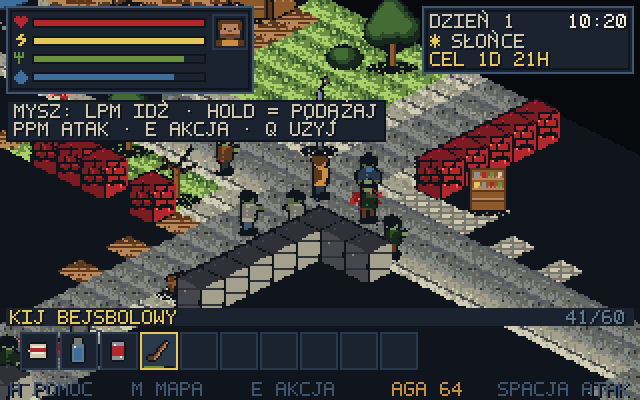
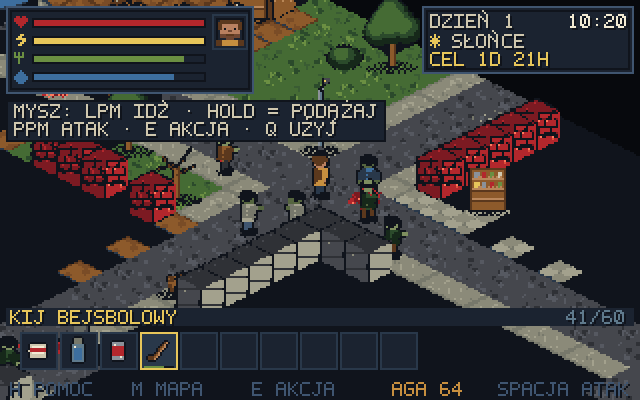
v0.2.5: dopracowanie materiałów (trawa, ziemia, żwir) + dokumentacja i zrzuty
- trawa: kępy darni o zmiennej liczbie, bez kwiatka powtarzanego co kilka
  kafli, przygaszone przerzedzenia;
- ziemia: miękkie płaty zamiast kaszy punktów, ziarno w komórkach płaszczyzny,
  kamienie tylko w części wariantów i z kształtem z RNG;
- żwir: zmienna orientacja highlightu kamienia;
- docs: GRAFIKA.md sekcja 9 (co zrobione, budżet z pomiaru, weryfikacja),
  README/WINDOWS/GDD/PROMPT-KONTYNUACJA zaktualizowane do v0.2.5;
- docs/screens 01-12 odświezone nową grafiką terenu.

diff --git a/src/art.js b/src/art.js
@@ -294,21 +294,25 @@ const GROUND_DRAW = {
   // Ziemia: nieregularne płaty, spokojne ziarno, pojedyncze kamienie.
   dirt(g) {
     const { pb, rng, detail } = g;
-    for (let i = 0; i < 5; i++) {
+    // nieregularne płaty: większe, miękkie plamy zamiast kaszy punktów
+    const patches = 3 + (detail % 3);
+    for (let i = 0; i < patches; i++) {
       const [cx, cy] = randInner(rng);
-      blobIn(pb, MASK_INNER, rng, cx, cy, rng.int(1, 3), rng.chance(0.5) ? C.WOOD : C.GOLD, 0.6);
+      blobIn(pb, MASK_INNER, rng, cx, cy, rng.int(2, 3), rng.chance(0.5) ? C.WOOD : C.GOLD, 0.45);
     }
-    for (let i = 0; i < 4; i++) {
-      const [cx, cy] = randInner(rng);
-      blobIn(pb, MASK_INNER, rng, cx, cy, 1, rng.chance(0.5) ? X.DIRT_LIT : C.WOOD_DARK, 0.7);
-    }
+    // spokojne ziarno: pary pikseli w komórkach płaszczyzny, nie szum per piksel
+    g.each((x, y, u, v) => {
+      if (hash2(Math.floor(u * 8), Math.floor(v * 8), 613) > 0.88 && hash2(x, y, 727) > 0.45) {
+        pb.set(x, y, rng.chance(0.5) ? X.DIRT_LIT : C.WOOD_DARK);
+      }
+    });
+    // pojedyncze kamienie: tylko część wariantów, kształt z RNG
     if (detail >= 3) {
       const [cx, cy] = randInner(rng);
-      if (MASK_INNER.get(cx + 1, cy) === 1 && MASK_INNER.get(cx, cy + 1) === 1) {
-        pb.set(cx, cy, C.CONCRETE);
-        pb.set(cx + 1, cy, C.CONCRETE_DARK);
-        pb.set(cx, cy + 1, C.CONCRETE_DARK);
-      }
+      const r = rng.int(0, 1);
+      blobIn(pb, MASK_INNER, rng, cx, cy, r, C.CONCRETE_DARK, 1);
+      pb.set(cx, cy, C.CONCRETE);
+      if (r === 1) pb.set(cx + 1, cy, X.ASPHALT_HI);
     }
   },
 
@@ -439,9 +443,10 @@ const GROUND_DRAW = {
     }
     for (let i = 0; i < 3; i++) {
       const [cx, cy] = randInner(rng);
-      if (MASK_INNER.get(cx + 1, cy) === 1) {
+      const [dx, dy] = rng.pick([[1, 0], [0, 1], [1, 1], [-1, 1]]);
+      if (MASK_INNER.get(cx + dx, cy + dy) === 1) {
         pb.set(cx, cy, X.ASPHALT_HI);
-        pb.set(cx + 1, cy, C.ASPHALT);
+        pb.set(cx + dx, cy + dy, C.ASPHALT);
       }
     }
     for (let i = 0; i < 2; i++) {

diff --git a/README.md b/README.md
@@ -39,20 +39,59 @@ deskami, śpisz w łóżkach i próbujesz przetrwać **dwie doby**.
   <img src="docs/screens/06-mapa.png" width="49%" alt="Mapa okolicy">
 </p>
 
-## Wersja v0.2.4 — widok daleki
+## Wersja v0.2.5 — grunt i podłogi od nowa
 
 **Pobierz gotowy projekt (bez Gita):**
-[**ZIP źródeł v0.2.4 — dostępny teraz**](https://github.com/diWhizZ/AmBoid/archive/refs/tags/v0.2.4.zip) ·
-[Release v0.2.4](https://github.com/diWhizZ/AmBoid/releases/tag/v0.2.4) ·
+[**ZIP źródeł v0.2.5**](https://github.com/diWhizZ/AmBoid/archive/refs/tags/v0.2.5.zip) ·
+[Release v0.2.5](https://github.com/diWhizZ/AmBoid/releases/tag/v0.2.5) ·
+[ZIP gałęzi roboczej](https://github.com/diWhizZ/AmBoid/archive/refs/heads/arena/b923a220-amboid.zip) ·
 [aktualny main.zip](https://github.com/diWhizZ/AmBoid/archive/refs/heads/main.zip).
 
-**Status publikacji:** PR #2 scalony, tag i Release v0.2.4 opublikowane.
-Osobny asset `AmBoid-0.2.4.zip` czeka na wysyłkę: sandbox nie ma dostępu do
-`uploads.github.com`, a GitHub App nie ma uprawnienia `workflows`.
-ZIP tagu powyżej i „Source code (zip)” na Release są dostępne niezależnie od
-tego ograniczenia. [Szczegóły i gotowy workflow](docs/PUBLIKACJA.md).
+**Status publikacji:** PR #4 (ta wersja) otwarty z gałęzi sesji; tag i Release
+v0.2.5 tworzone z tego samego commitu co PR. Historyczny v0.2.4 pozostaje
+nietknięty: [tag v0.2.4](https://github.com/diWhizZ/AmBoid/releases/tag/v0.2.4).
+Ograniczenie wysyłki osobnego assetu `AmBoid-*.zip` na Release jest opisane
+w [docs/PUBLIKACJA.md](docs/PUBLIKACJA.md) — ZIP tagu/gałęzi działa zawsze.
 
-Changelog:
+Changelog v0.2.5 (grafika terenu i podłóg, bez zmian geometrii i mechanik):
+- **koniec pasmowania**: usunięty gradient „oświetlenia” pojedynczego rombu,
+  który powielony na płaskiej powierzchni dawał ukośne pasy;
+- **koniec powtarzalnych prążków**: asfalt nie ma dwóch ciemnych linii w każdym
+  kaflu, beton poziomej szczeliny, drewno linii co 3 piksele;
+- wzory strukturalne (fugi płyt chodnika, deski, siatka ceramiki, dylatacje
+  betonu) liczone w **UV płaszczyzny podłogi** — są ciągłe między kaflami
+  i leżą w osiach izometrii, nie ekranu;
+- **dobór wariantów**: dokładna faza siatki strukturalnej + zestaw detalu
+  z hasza(seed, x, y); deterministyczny, stabilny przy przesuwaniu kamery,
+  bez `Math.random()` w klatce i bez zużywania RNG rozgrywki;
+- **maska rombu 256 px** (test środka piksela): duża płaszczyzna składa się
+  bez dziur i bez podwójnego pokrycia (było 272 px i ~6% nadpisań → szwy);
+  globalny `PixelBuffer.fillPoly` pozostał nietknięty;
+- **4–8 wariantów** na materiał o zbliżonej średniej jasności (koniec
+  szachownicy z jaśniejszych/ciemniejszych rombów); szczegóły jako celowe
+  skupiska pikseli, czytelne po pomniejszeniu 0,75×;
+- materiały wg briefu: asfalt = ciemna spokojna masa z pęknięciami i łatkami,
+  trawa = stonowana zieleń z kępami darni i przerzedzeniami (bez kwiatka
+  co kilka kafli), chodnik = czytelne płyty 2×2 z delikatnymi fugami,
+  **krawężnik tylko na prawdziwej granicy z jezdnią**, ziemia = płaty
+  i pojedyncze kamienie, beton = spokojne pola, deski = przesunięte łączenia,
+  ceramika = siatka w perspektywie podłogi, wykładzina = matowa z przetarciem,
+  żwir = skupiska kamieni, woda = ograniczone refleksy;
+- narzędzia developerskie: `npm run texshots` (powtarzalne kadry porównawcze
+  w ignorowanym `shots/`) i `node tools/texbench.mjs` (koszt atlasu i czasu
+  renderu tego samego kadru).
+
+Koszt (pomiar `tools/texbench.mjs`, ten sam kadr):
+| | v0.2.4 | v0.2.5 |
+| --- | --- | --- |
+| kafle terenu | 30 | 54 |
+| chunky 8 bit | 15 360 B | 27 648 B |
+| 6 bitplanów AGA | 11 520 B | 20 736 B |
+| maska rombu | 30 × 64 B | 1 × 64 B (wspólna) |
+| render kadru far 0,75× | 2,208 ms | 1,941 ms |
+| `buildArt()` | 41,1 ms | 31,6 ms |
+
+Zmiany z v0.2.4 (widok daleki) pozostają w mocy:
 - domyślny **widok daleki 0,75×**: świat 427×267, ekran nadal **320×200**;
 - **V** przełącza daleki / bliski; `?view=far|close` i zapis `amboid.view`;
 - skalowanie **indeksów palety, MAJORITY 2×2** — bez uśredniania RGB;
@@ -72,7 +111,7 @@ Potrzebujesz tylko Node.js (bez żadnych zależności produkcyjnych):
 Windows / PowerShell (również przy zablokowanym `npm.ps1`):
 
 ```powershell
-cd D:\pobrane\zomboid\AmBoid-0.2.4
+cd D:\pobrane\zomboid\AmBoid-0.2.5
 node tools/serve.mjs
 # otwórz http://localhost:8080
 ```
@@ -227,6 +266,7 @@ sprawdza, że na ekranie jest dokładnie 0 pikseli spoza palety.
 
 ```bash
 npm run shots   # zrzuty ekranu do docs/screens
+npm run texshots # powtarzalne kadry tekstur do ignorowanego shots/
 npm test        # testy logiki: ruch, walka, łupy, zabijanie okien, sen, śmierć
 node tools/export_amiga.mjs   # atlasy IFF ILBM + paleta
 node tools/export_map.mjs     # miasto w formacie binarnym .amb
@@ -234,7 +274,7 @@ node tools/stress.mjs         # 6000 losowych klatek bez wyjątków
 node tools/browsertest.mjs    # integracja main.js z atrapą DOM
 ```
 
-**v0.2.4: 204 OK, 0 FAIL**, `BROWSER-STUB TEST OK` dla obu widoków,
+**v0.2.5: 215 OK, 0 FAIL**, `BROWSER-STUB TEST OK` dla obu widoków,
 0 pikseli poza paletą AGA oraz 6000 klatek stress. Pod Windows:
 `npm.cmd install`, potem `npm.cmd test` (do gry nie trzeba instalacji).
 

diff --git a/docs/GRAFIKA.md b/docs/GRAFIKA.md
@@ -1,7 +1,8 @@
 # AMBOID — plan poprawy strony graficznej
 
-Stan na **v0.2.4** (widok daleki; proceduralny tileset z 0.2.3). Punkt wyjścia: 320×200, izometria 2:1, kafle 32×16, ściany
-20 px, wszystko proceduralne, palety 32 (OCS) / 64 (AGA, RTG).
+Stan na **v0.2.5** (widok daleki; grunt i podłogi przebudowane w 0.2.5, reszta tilesetu z 0.2.3). Punkt wyjścia: 320×200,
+izometria 2:1, kafle 32×16, ściany 20 px, wszystko proceduralne, palety 32 (OCS) / 64 (AGA, RTG).
+Sekcja **9** opisuje, co faktycznie zrobiono w v0.2.5 i jak to zweryfikowano.
 
 Dokument odpowiada na pytanie „co możemy zrobić, żeby gra wyglądała lepiej” —
 w kolejności od rzeczy o największym efekcie do najbardziej kosztownych.
@@ -162,3 +163,67 @@ animacji ponad 4 klatki lub przebudowywania kafli.
 - wszystkie kolory nadal mieszczą się w palecie (test `0 px poza paletą`),
 - budżet klatki: AGA ≤ 48 KB, RTG ≤ 64 KB (po podziale na banki),
 - `npm test` zielony po każdej zmianie.
+
+
+---
+
+## 9. v0.2.5 — grunt i podłogi od nowa (ZROBIONE)
+
+Powód: kafle v0.2.4 były wizualnie słabe i wyraźnie pasmowały. Potwierdzone
+źródła problemu i ich rozwiązanie:
+
+| Problem v0.2.4 | Rozwiązanie v0.2.5 |
+| --- | --- |
+| gradient `gx=(x-2y+16)/48` oświetlał każdy romb osobno → ukośne pasy na płaskiej powierzchni | gradient usunięty; ton = materiał + zabrudzenie, bez fałszywej bryły |
+| asfalt: ciemne wzory na y=5 i y=11 w każdym wariancie; beton: szczelina na y=8; drewno: linie co 3 px | prążki usunięte; pęknięcia i łatki jako nieliczne, nieregularne skupiska |
+| drewno i ceramika wzorowane w osiach obrazka | wzory w UV płaszczyzny podłogi: `u=(px-16)/32+py/16`, `v=py/16-(px-16)/32`, ze środkami pikseli; wzór ciągły przez `tileX+u`, `tileY+v` |
+| dużo kontrastowego szumu jednopikselowego | celowe skupiska 2–5 px na spokojnym tle; raport `tools/texshots.mjs --report` mierzy udział „samotnych” pikseli (asfalt 23% → 3%) |
+| warianty `tile` i `carpet` identyczne | wszystkie warianty parami różne (test) |
+| rampy nieuporządkowane jasnością (grass 54→23→9→12→6) | rampy monotoniczne po luminancji (test); średnia jasność wariantów materiału zbliżona (test, ±10) |
+| maska rombu 272 px → ~6% pikseli płaszczyzny nadpisywanych | maska testem środka piksela = 256 px; pokrycie płaszczyzny 1:1 bez dziur (test); `PixelBuffer.fillPoly` nietknięty |
+| krawężnik na każdym kaflu chodnika | krawężnik rysuje `scene.js` wyłącznie tam, gdzie `world.isRoad()` sąsiaduje z chodnikiem |
+| dobór wariantów `rng.int(0,2)` z RNG świata i `% 3` w scenie | `groundVariantIndex(kind,x,y,seed)`: dokładna faza siatki strukturalnej + detal z `hashInt`; `% 3` usunięte; zużycie RNG świata 1:1 z 0.2.4 (ten sam seed = ten sam świat) |
+
+### Struktura generatora (`src/art.js`)
+
+- `GROUND_SPEC`: `lattice` = okres wzoru strukturalnego w kaflach (fazy X×Y),
+  `details` = liczba zestawów detalu na fazę, `salt` = ziarno hasza.
+  Liczba wariantów = `lx*ly*details` (4–8 na materiał).
+- Faza musi być **dokładna** (parzystość współrzędnych świata), bo tylko wtedy
+  fugi płyt, spoiny desek i dylatacje schodzą się między kaflami.
+  Detal dobiera `hashInt(x, y, seed^salt, details)` — nie liniowe modulo
+  i nie `Math.random()` w klatce.
+- Detale rysowane ≥1 px od krawędzi rombu (`MASK_INNER`), więc sąsiedni kafel
+  nigdy nie ucina kształtu w połowie.
+- Generowanie odbywa się wyłącznie w `buildArt()` (atlas), zero pracy per piksel
+  klatki; dobór wariantu w klatce to jeden hasz na kafel.
+
+### Budżet — pomiar, nie założenie (`tools/texbench.mjs`)
+
+| | v0.2.4 | v0.2.5 |
+| --- | --- | --- |
+| kafle terenu | 30 | 54 |
+| chunky 8 bit | 15 360 B | 27 648 B (+12 288 B) |
+| 6 bitplanów AGA | 11 520 B | 20 736 B (+9 216 B) |
+| maska rombu | 30 × 64 B | 1 × 64 B (wspólna dla wszystkich kafli) |
+| render kadru far 0,75× | 2,208 ms/klatkę | 1,941 ms/klatkę |
+| `buildArt()` | 41,1 ms | 31,6 ms |
+
+Uwaga o „48 000 B”: to rozmiar framebufferu AGA 320×200 (6 bitplanów), a nie
+limit wszystkich assetów. Atlas podłóg jest osobną pamięcią chip/blade i mieści
+się w jednej stronie atlasu 320×256 w 6 bitplanach (61 440 B). Render tego
+samego kadru jest w v0.2.5 **szybszy** niż w bazie, więc nie ma potrzeby
+przebudowy silnika ani banków kafli z powodu tej zmiany.
+
+### Weryfikacja wizualna
+
+`npm run texshots` (`tools/texshots.mjs`) zapisuje do ignorowanego `shots/`
+powtarzalne kadry: płaska płaszczyzna każdego materiału (jednolity wariant
+i wymieszane warianty), skrzyżowanie jezdnia/chodnik/trawa, wnętrza z deskami,
+ceramiką, wykładziną i betonem, właściwy kadr gry w far 0,75× i close 1×,
+AGA dzień / OCS 32 / RTG noc, bufor świata przed `blitScaled` oraz cztery fazy
+przesunięcia kamery o pojedyncze piksele. Zrzuty PNG nie zawierają warstwy CRT
+(to wyłącznie CSS w `index.html`), więc kontrola „bez CRT” jest wbudowana.
+
+Mierzone migotanie przy przesuwaniu kamery o 1 px (udział pikseli kadru
+zmienionych między fazami, obszar świata): v0.2.4 ≈ 24–28%, v0.2.5 ≈ 17%.

diff --git a/docs/WINDOWS.md b/docs/WINDOWS.md
@@ -1,4 +1,4 @@
-# AMBOID v0.2.4 pod Windows — ZIP, bez Gita
+# AMBOID v0.2.5 pod Windows — ZIP, bez Gita
 
 Cel: **rozbudowana A1200 AGA (64 kolory) albo karta RTG (światło RGB)**.
 To jeden prototyp przeglądarkowy, nie dwa programy i nie natywny plik `.exe`.
@@ -6,21 +6,24 @@ Tryb OCS 32 jest wyłącznie zgodnością; domyślny profil to AGA.
 
 ## 1. Pobierz i rozpakuj
 
-- [Release v0.2.4](https://github.com/diWhizZ/AmBoid/releases/tag/v0.2.4)
-- **[ZIP źródeł v0.2.4](https://github.com/diWhizZ/AmBoid/archive/refs/tags/v0.2.4.zip)** — stała wersja, dostępny teraz
+- [Release v0.2.5](https://github.com/diWhizZ/AmBoid/releases/tag/v0.2.5)
+- **[ZIP źródeł v0.2.5](https://github.com/diWhizZ/AmBoid/archive/refs/tags/v0.2.5.zip)** — stała wersja
+- [ZIP gałęzi roboczej v0.2.5](https://github.com/diWhizZ/AmBoid/archive/refs/heads/arena/b923a220-amboid.zip) — stan bieżącego PR
 - [main.zip](https://github.com/diWhizZ/AmBoid/archive/refs/heads/main.zip) — najnowszy stan po scaleniu PR
+- historycznie: [ZIP źródeł v0.2.4](https://github.com/diWhizZ/AmBoid/archive/refs/tags/v0.2.4.zip)
 
-Nie potrzebujesz Gita. ZIP tagu ma podfolder `AmBoid-0.2.4`; rozpakuj go do
+Nie potrzebujesz Gita. ZIP tagu ma podfolder `AmBoid-0.2.5`; rozpakuj go do
 `D:\pobrane\zomboid`, żeby otrzymać:
-`D:\pobrane\zomboid\AmBoid-0.2.4`.
+`D:\pobrane\zomboid\AmBoid-0.2.5`.
 W tym folderze mają być od razu `index.html`, `package.json`, `src`, `tools`, `docs`.
 Nie uruchamiaj projektu wewnątrz archiwum ani w `C:\WINDOWS\system32`.
 Archiwum `main.zip` ma własny podfolder `AmBoid-main` — wejdź do niego.
 
 Na stronie Release można też pobrać **Source code (zip)** — to ten sam tag.
-Osobny asset o nazwie `AmBoid-0.2.4.zip` nie został jeszcze dołączony z powodu
-blokady `uploads.github.com` i braku uprawnienia `workflows` połączenia Arena.
-Nie potrzebujesz tego assetu, aby uruchomić grę z ZIP-a tagu.
+Osobny asset o nazwie `AmBoid-0.2.5.zip` może nie być dołączony do Release
+z powodu blokady `uploads.github.com` i braku uprawnienia `workflows`
+połączenia Arena — ZIP tagu lub gałęzi powyżej zawiera dokładnie te same
+źródła i działa zawsze. Nie potrzebujesz osobnego assetu, aby grać.
 [Szczegóły publikacji](PUBLIKACJA.md).
 
 ## 2. Uruchom — bez npm i bez zmiany ExecutionPolicy
@@ -29,7 +32,7 @@ Wystarczy zainstalowany Node.js (np. **v24.22.0**) i aktualny Chrome/Edge/Firefo
 Sprawdzenie: `node -v`.
 
 ```powershell
-cd D:\pobrane\zomboid\AmBoid-0.2.4
+cd D:\pobrane\zomboid\AmBoid-0.2.5
 node tools/serve.mjs
 ```
 

diff --git a/docs/GDD.md b/docs/GDD.md
@@ -1,6 +1,6 @@
 # AMBOID — dokument projektowy (GDD)
 
-Wersja 0.2.4 · prototyp HTML5 · cel docelowy: A1200 AGA / RTG
+Wersja 0.2.5 · prototyp HTML5 · cel docelowy: A1200 AGA / RTG
 
 ---
 
@@ -296,7 +296,14 @@ z martwą strefą, anulowanie rozkazu nowym kliknięciem. Klawiatura i pad pozos
 **v0.2.4 — widok daleki.** Zoom-out 0,75×, bufor 427×267, przełączanie V,
 URL i zapis ustawienia. Filtr MAJORITY 2×2 zachowuje indeksy palety; HUD i
 rozkazy pozostają ostre. Całopikselowa kamera, przeliczenia myszy/świateł/FOV,
-jasny dzień bez przygaszania pamięci mapy. 204 testy akceptacyjne.
+jasny dzień bez przygaszania pamięci mapy.
+
+**v0.2.5 — grunt i podłogi.** Kafle terenu generowane bez oświetlenia
+pojedynczego rombu: ton opisuje materiał i zabrudzenie. Wzory strukturalne
+(fugi, deski, ceramika, dylatacje) liczone w UV płaszczyzny podłogi, więc są
+ciągłe między kaflami; dobór wariantów = faza siatki + detal z hasza(seed, x, y).
+Maska rombu 256 px daje składanie dużych płaszczyzn bez dziur i nadpisań.
+Krawężnik wyłącznie na granicy chodnika i jezdni. 215 testów akceptacyjnych.
 
 **Następny etap 4 — styl Cannon Fodder:** małe ikony z 16-kolorowej podpalety,
 2–4 klatki, mirror, krew/łuski/dym/błysk/ślady stóp, dopracowanie portretu i

diff --git a/docs/PROMPT-KONTYNUACJA.md b/docs/PROMPT-KONTYNUACJA.md
@@ -1,10 +1,21 @@
-# AMBOID — kontynuacja po v0.2.4
+# AMBOID — kontynuacja po v0.2.5
 
 Cel: A1200 AGA (64 kolory, domyślnie) albo RTG (64 + światło RGB).
 OCS 32 pozostaje tylko profilem zgodności. 70% Project Zomboid / 30% Cannon Fodder.
 Bez RTS-izacji walki, grupowego autoataku ani zmiany podstawowego survivalu.
 
 ## Stan i publikacja
+
+**v0.2.5 (grunt i podłogi)** powstała na gałęzi `arena/b923a220-amboid`
+(PR #4) z bazy main `062e61a` (v0.2.4). Zakres: przebudowa `makeGround`
+w `src/art.js` (specyfikacja `GROUND_SPEC`, wzory w UV podłogi, maska rombu
+256 px), dobór wariantów `groundVariantIndex` (świat zapisuje `gv` bez
+zużywania układu RNG z 0.2.4), krawężnik kontekstowy w `src/scene.js`,
+testy sekcji „Tekstury terenu i podłóg”, narzędzia `tools/texshots.mjs`
+i `tools/texbench.mjs`, zrzuty `docs/screens` 01–12 odświezone.
+`npm test`: **215 OK, 0 FAIL**, BROWSER-STUB far/close, stress 6000 klatek.
+Eksporty Amigi (`docs/amiga/**`) pozostały HISTORYCZNE z v0.2.4 — nie były
+regenerowane (`tools/export_amiga.mjs` celowo nieuruchamiany).
 
 v0.2.4 odtworzono z przekazanej specyfikacji na bazie main `4d301fb` (v0.2.3),
 ponieważ commit `4690d2b`, jego ZIP i wcześniejsza wersja tego dokumentu nie były
